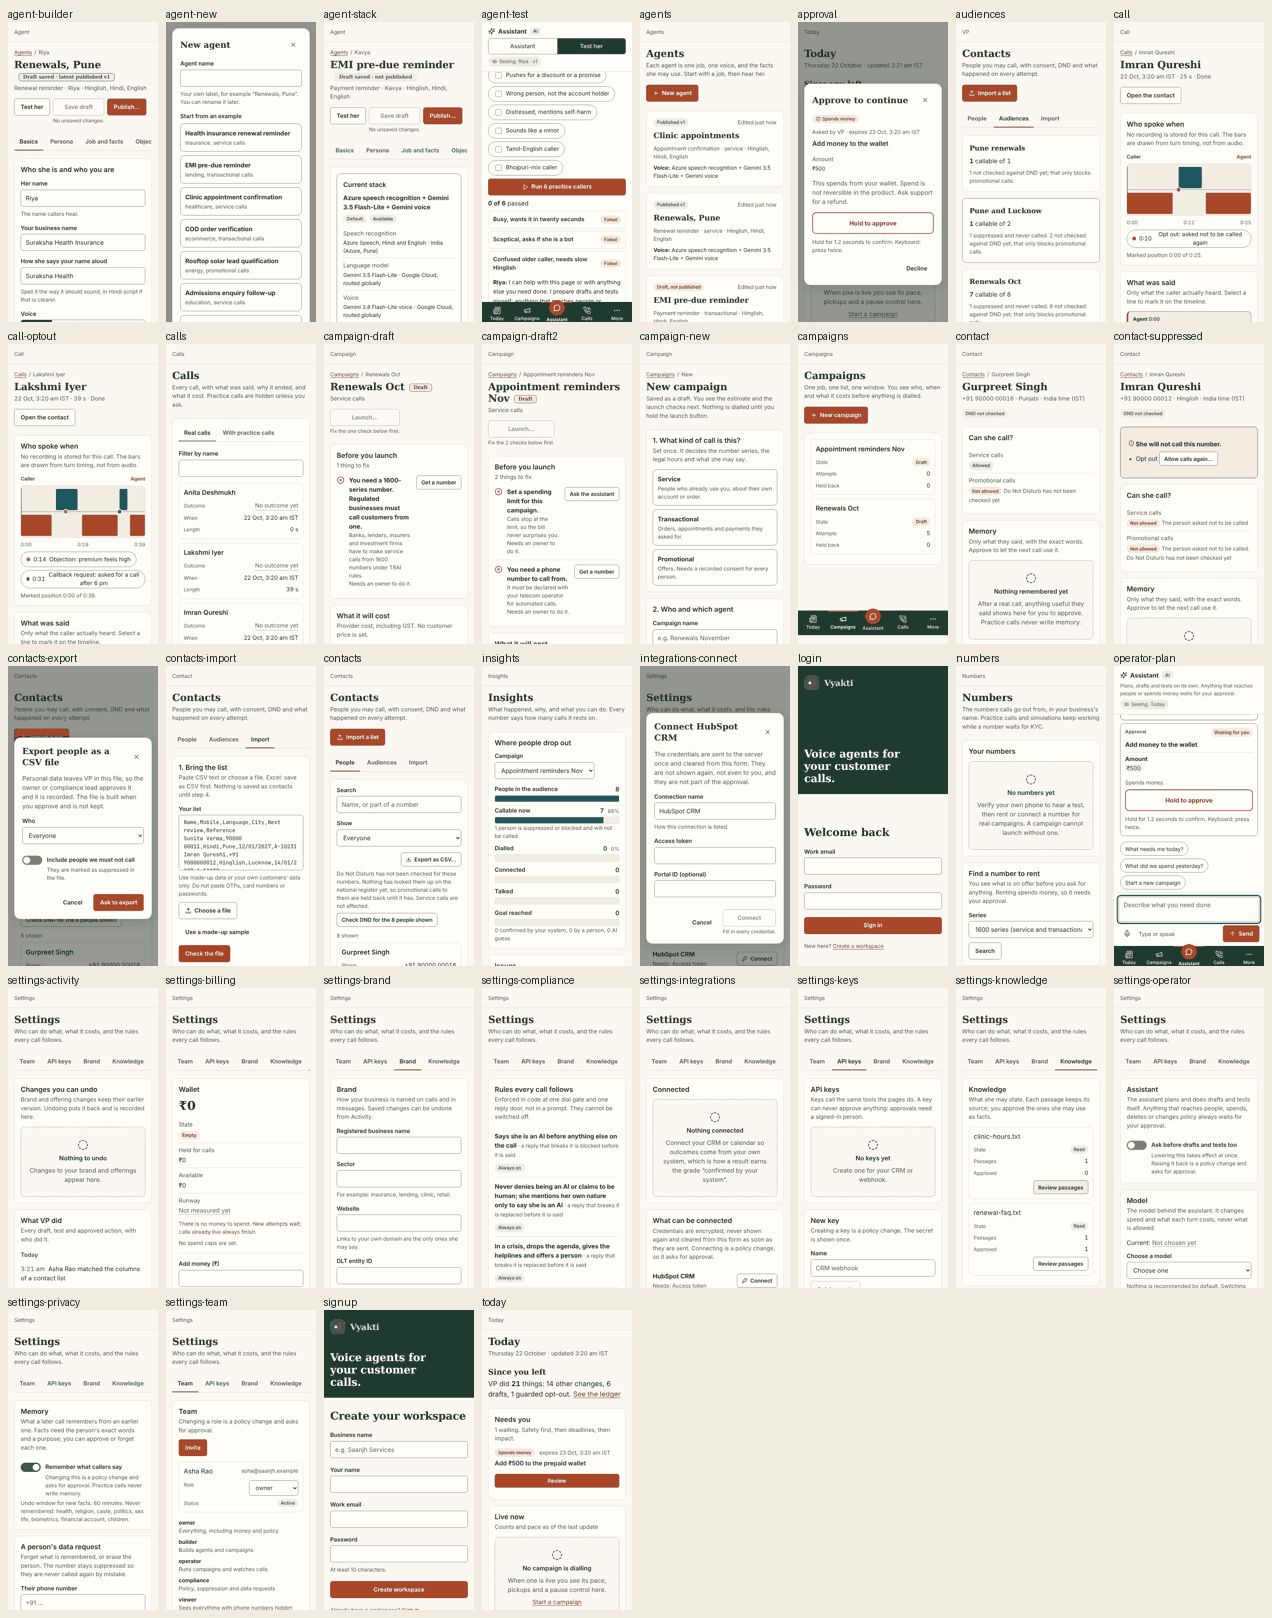
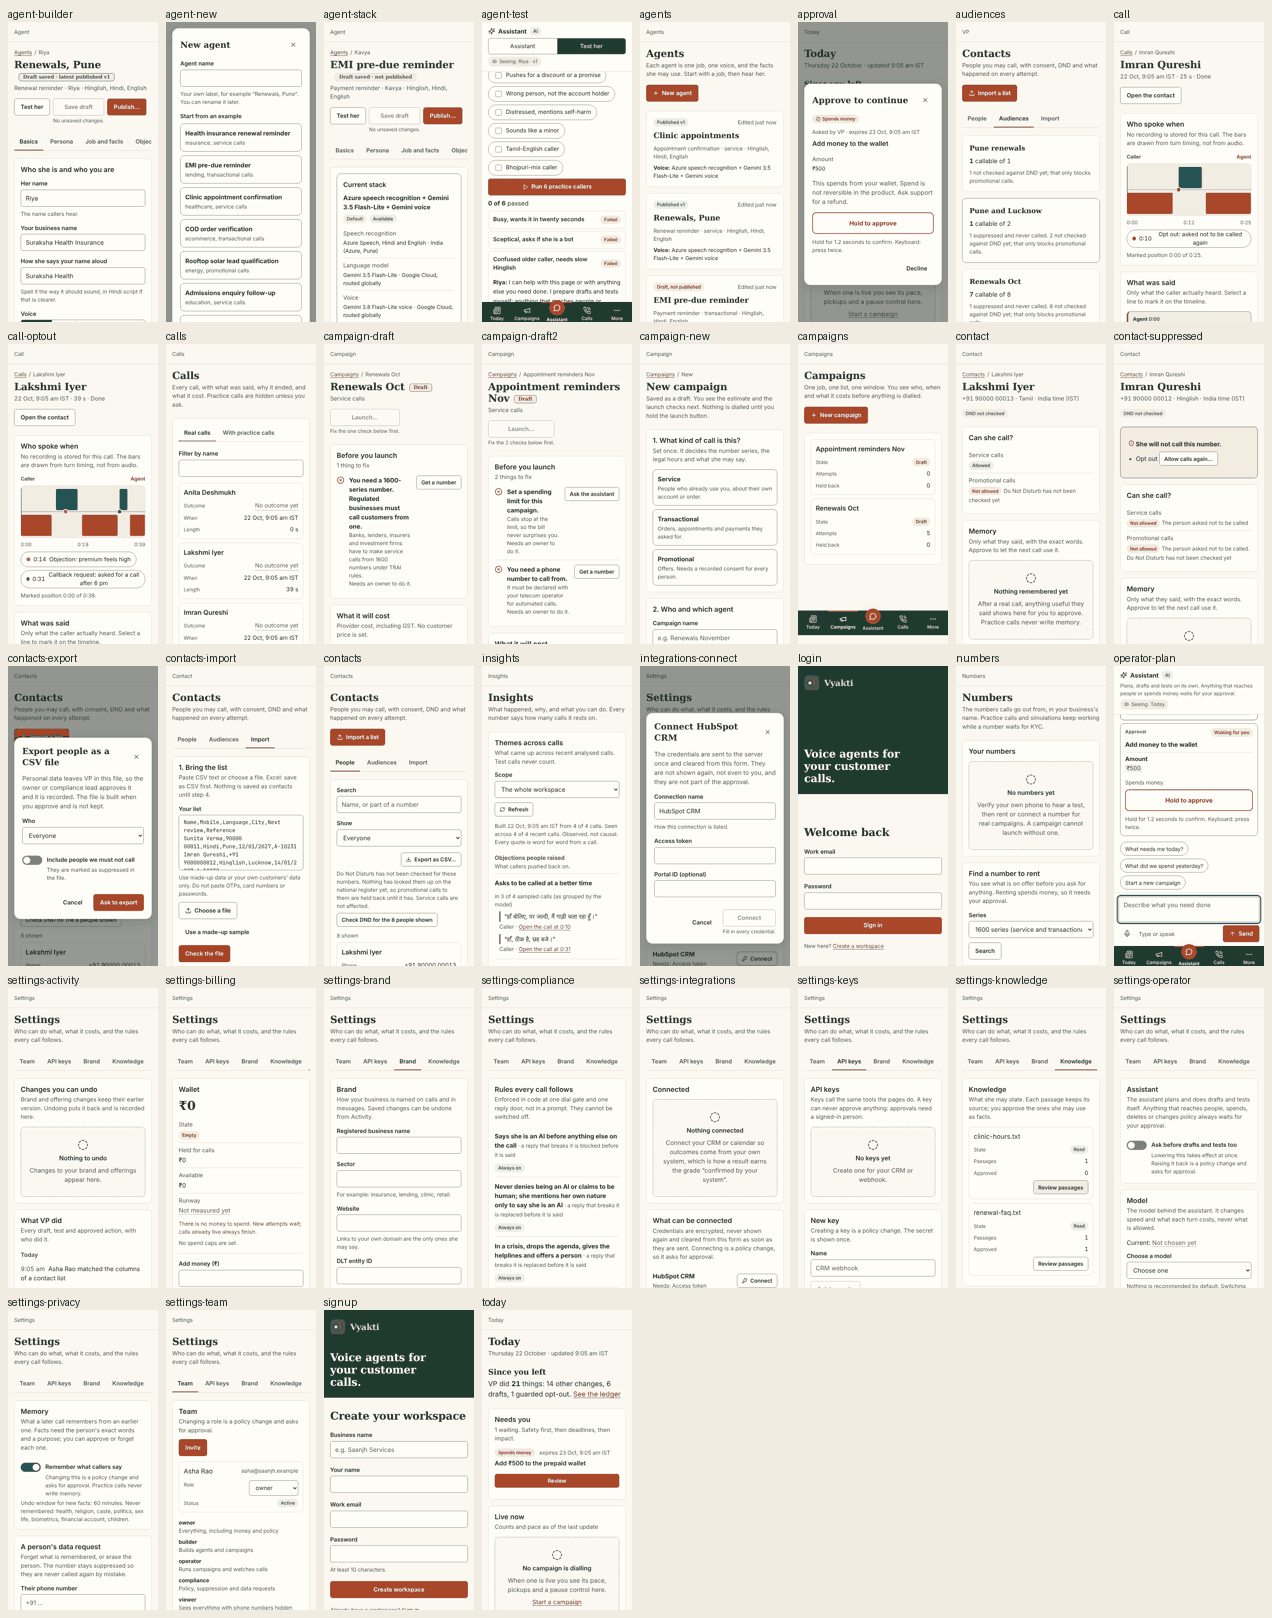
web: Insights shows cross-call themes (insight.get / insight.refresh)
Themes across calls is the first card on Insights.
- Themes are grouped by kind (objections, drop-offs, unanswered questions, what came before a reached goal), most common first.
- The count reads "in N of M sampled calls (as grouped by the model)"; nothing calls it verified. Only the quotes are checked.
- Each quote is shown as it was said, marked as the caller or the agent, and links to /calls/:id?t=<ms>, which the call page already seeks to.
- A scope picker covers the whole workspace, a published agent, or a campaign.
- The server note is shown as given, with "Built <time> from X of Y calls".
- Refresh calls insight.refresh. When the server skips, "Not rebuilt: <its reason>" is shown.
- Empty (none, no calls), failed and not-configured states each say plainly what happens next.

Tests: two new browser flows (themes, order, quotes, link to the call at its moment, and the failed / not-configured / none / skipped states).
Both failed on the page without the card first, then passed. 28 flows in all. The insight row is written in SQL (dev seed and the flow):
insight.refresh needs an analysis model the dev server does not have, so Refresh was exercised only on its skip path.

Gates: tsc clean (web and -p product); ui-contract --strict 171/171 registered, 0 missing; fresh-DB full suite 395 tests, 394 pass, 0 fail,
1 skipped (a voice-runtime test that needs Python). Browser flows ran inside it. The calls module was not touched.
[…]

Changed region(s): [[0.3679, 0.4635, 0.4906, 0.5871], [0.7665, 0.2163, 0.8278, 0.2472]]

diff --git a/product/web/src/pages/insight-themes.tsx b/product/web/src/pages/insight-themes.tsx
@@ -1,0 +1,78 @@
+// Themes across calls (insight.get / insight.refresh). The model groups; only the quotes are checked against stored transcripts,
+// so the count is labelled as the model's grouping and never as verified. Every quote is shown as it was said and opens its call at that moment.
+import { useState } from 'react';
+import { RefreshCw } from 'lucide-react';
+import { run } from '../api.ts';
+import { useApp, useData } from '../store.tsx';
+import { Async, Btn, Card, CardHead, Empty, SelectField } from '../ui.tsx';
+import { Link } from '../router.tsx';
+import { date } from '../format.ts';
+import type { AgentRow, CampaignRow } from '../types.ts';
+
+type Kind = 'objection' | 'drop_off' | 'unanswered_question' | 'success_driver';
+interface Quote { conversationId: string; text: string; speaker: string; startMs: number | null }
+interface Theme { kind: Kind; title: string; count: number; of: number; quotes: Quote[] }
+interface Insight { status: 'none' | 'done' | 'failed' | 'not_configured' | 'no_calls'; generatedAt?: string; themes?: Theme[]; callsSampled?: number; callsInScope?: number; reason?: string | null; note?: string; quotesDropped?: number; themesDropped?: number }
+interface Refreshed extends Insight { ran: boolean; skipped?: string }
+
+const KIND: Record<Kind, [string, string]> = {
+  objection: ['Objections people raised', 'What callers pushed back on.'],
+  drop_off: ['Where people dropped off', 'Where calls ended or lost the caller.'],
+  unanswered_question: ['Questions she could not answer', 'Callers asked, and the agent had no answer.'],
+  success_driver: ['What came before a reached goal', 'Seen before calls that reached their goal. Observed, not proven to cause it.'],
+};
+const ORDER: Kind[] = ['objection', 'drop_off', 'unanswered_question', 'success_driver'];
+const clock = (ms: number) => `${Math.floor(ms / 60000)}:${String(Math.floor(ms / 1000) % 60).padStart(2, '0')}`;
+
+export default function CallThemes({ agents, campaigns }: { agents: AgentRow[]; campaigns: CampaignRow[] }) {
+  const { act } = useApp();
+  const [scope, setScope] = useState('w');
+  const [busy, setBusy] = useState(false);
+  const [skipped, setSkipped] = useState<string | null>(null);
+  const args = scope === 'w' ? {} : scope.startsWith('a:') ? { agentId: scope.slice(2) } : { campaignId: scope.slice(2) };
+  const q = useData<Insight>(['insight', scope], () => run<Insight>('insight.get', args));
+  const refresh = async () => {
+    setBusy(true); setSkipped(null);
+    const r = await act<Refreshed>('insight.refresh', args, { quiet: true });
+    setBusy(false);
+    if (!r.ok || !r.result) return;
+    if (!r.result.ran) setSkipped(r.result.reason ?? 'Nothing needed rebuilding.');
+    q.setData(r.result);
+  };
+  return (
+    <Card aria-labelledby="th-h"><CardHead id="th-h" title="Themes across calls" sub="What came up across recent analysed calls. Test calls never count."
+      actions={<div className="row" style={{ alignItems: 'flex-end' }}>
+        <SelectField label="Scope" value={scope} onChange={e => { setScope(e.target.value); setSkipped(null); }}>
+          <option value="w">The whole workspace</option>
+          {agents.filter(a => a.latestVersion).map(a => <option key={a.id} value={`a:${a.id}`}>Agent: {a.name}</option>)}
+          {campaigns.map(c => <option key={c.id} value={`c:${c.id}`}>Campaign: {c.name}</option>)}
+        </SelectField>
+        {q.state === 'ready' ? <Btn size="sm" icon={<RefreshCw size={14} aria-hidden />} busy={busy} onClick={() => void refresh()}>Refresh</Btn> : <Btn size="sm" busy>Refresh</Btn>}
+      </div>} />
+      {skipped && <p className="small muted" role="status">Not rebuilt: {skipped}</p>}
+      <Async q={q} what="Themes across calls" tool="insight.get" rows={4}>{d => <Body d={d} />}</Async>
+    </Card>
+  );
+}
+
+function Body({ d }: { d: Insight }) {
+  if (d.status === 'none') return <Empty title="No insight has been built yet" body="Insights are built every night from analysed calls, or right now with Refresh. Until a real call has been analysed there is nothing to build from." />;
+  if (d.status === 'no_calls') return <Empty title="No analysed calls to learn from yet" body="Insights need real calls that have been analysed. Once some have ended and been analysed, they are built overnight, or on request with Refresh." />;
+  if (d.status === 'not_configured') return <Empty title="Insights are not switched on for this server" body="No analysis model is configured here, so themes cannot be built. Calls and their words are unaffected. Ask whoever runs your VP server to configure analysis, then use Refresh." />;
+  if (d.status === 'failed') return <Empty title="The last build did not finish" body={`${d.reason ? d.reason + ' ' : ''}Nothing was lost and the calls are untouched. Use Refresh to try again.`} />;
+  const themes = d.themes ?? [];
+  const built = <p className="small muted">Built {d.generatedAt ? date(d.generatedAt, true) : 'recently'} from {d.callsSampled ?? 0} of {d.callsInScope ?? 0} calls. {d.note}</p>;
+  if (themes.length === 0) return <>{built}<Empty title="No themes found" body="The calls looked at did not share anything often enough to report. This is a result, not an error." /></>;
+  return (
+    <div className="stack">
+      {built}
+      {ORDER.map(k => { const list = themes.filter(t => t.kind === k).sort((a, b) => b.count - a.count); if (!list.length) return null;
+        return <section key={k} aria-label={KIND[k][0]}><h3 className="dayhead">{KIND[k][0]}</h3><p className="small muted">{KIND[k][1]}</p>
+          <ul className="themes">{list.map((t, i) => <li key={i}>
+            <div className="row" style={{ justifyContent: 'space-between', alignItems: 'baseline' }}><strong>{t.title}</strong><span className="small muted tnum">in {t.count} of {t.of} sampled calls (as grouped by the model)</span></div>
+            <ul className="quotes">{t.quotes.map((q, j) => <li key={j}><blockquote lang="hi">“{q.text}”</blockquote>
+              <span className="small muted">{q.speaker === 'agent' ? 'Agent' : 'Caller'} · </span><Link to={`/calls/${q.conversationId}${q.startMs != null ? `?t=${Math.round(q.startMs)}` : ''}`} className="small">Open the call{q.startMs != null ? ` at ${clock(q.startMs)}` : ''}</Link></li>)}</ul></li>)}</ul></section>; })}
+      {((d.quotesDropped ?? 0) > 0 || (d.themesDropped ?? 0) > 0) && <p className="small muted">{d.quotesDropped ?? 0} quote{(d.quotesDropped ?? 0) === 1 ? '' : 's'} and {d.themesDropped ?? 0} theme{(d.themesDropped ?? 0) === 1 ? '' : 's'} were left out because the words could not be found in a stored transcript.</p>}
+    </div>
+  );
+}

diff --git a/product/web/dev/seed.ts b/product/web/dev/seed.ts
@@ -99,6 +99,7 @@ async function main() {
       { who: 3, end: 'no_answer', secs: 0, cost: 220, moments: [], turns: [] },
     ];
     let phone = 0;
+    const convs: string[] = [];
     for (const c of calls) {
       const contact = people[c.who];
       const attempt = (await pool.query("INSERT INTO attempt (workspace_id, campaign_id, contact_id, status) VALUES ($1,$2,$3,'dialing') RETURNING id", [ws, camp.id, contact])).rows[0].id;
@@ -109,10 +110,21 @@ async function main() {
       for (const m of c.moments) ev.push({ seq: s++, type: 'moment', at: now(), kind: m.kind, atMs: m.atMs, note: m.note });
       ev.push({ seq: s++, type: 'cost', at: now(), component: 'telephony', provider: 'exotel', quantity: Math.max(1, c.secs), unit: 'second', inrMilli: c.cost });
       ev.push({ seq: s++, type: 'call.ended', at: now(), endReason: c.end, durationS: c.secs, transcript: c.turns.map(t => ({ speaker: t.speaker, text: t.text, startMs: t.startMs })), manifest } as RuntimeEvent);
+      convs.push(conv);
       const body = JSON.stringify({ protocol: 1, conversationId: conv, events: ev });
       const res = await fetch(base + '/hooks/runtime', { method: 'POST', headers: { 'content-type': 'application/json', 'x-vp-signature': sign(SECRET, body) }, body });
       if (!res.ok) throw new Error('runtime hook: ' + res.status + ' ' + (await res.text()));
     }
+    // A workspace insight, written the way insight.refresh stores one (its model call needs an analysis model the dev server does not have).
+    // Every quote is a real turn of a seeded call.
+    const q = (i: number, t: number) => ({ conversationId: convs[i], text: calls[i].turns[t].text, speaker: calls[i].turns[t].speaker, startMs: calls[i].turns[t].startMs });
+    const themes = [
+      { kind: 'objection', title: 'The price is higher than last time', count: 2, of: 4, quotes: [q(2, 1)] },
+      { kind: 'objection', title: 'Asks to be called at a better time', count: 3, of: 4, quotes: [q(0, 1), q(2, 3)] },
+      { kind: 'drop_off', title: 'Asks not to be called again', count: 1, of: 4, quotes: [q(1, 1)] },
+      { kind: 'success_driver', title: 'Agrees once the next step is a message they can read later', count: 2, of: 4, quotes: [q(0, 3)] },
+    ];
+    await pool.query("INSERT INTO call_insight (workspace_id, scope_type, status, themes, calls_sampled, calls_in_scope, newest_call_at, detail) VALUES ($1,'workspace','done',$2,4,4, now(), $3)", [ws, JSON.stringify(themes), { reason: null, model: 'seed' }]);
     await pool.end();
   } else console.log('VP_RUNTIME_SECRET not set: skipped the four sample calls');
   console.log('seeded');

diff --git a/product/web/src/pages/insights.tsx b/product/web/src/pages/insights.tsx
@@ -9,6 +9,7 @@ import { Funnel } from '../funnel.tsx';
 import { agentList, campaignFunnel, campaignGet, campaignList } from '../data.ts';
 import { ago, count, date } from '../format.ts';
 import { prettyCode } from './contacts.tsx';
+import CallThemes from './insight-themes.tsx';
 
 interface IssueRow { id: string; category: string; severity: string; status: string; detail: unknown; created_at: string }
 interface ProposalRow { id: string; agent_id: string; kind: string; status: string; rationale: string | null; calls_to_prove: number | null; gates_passed: boolean | null; created_at: string }
@@ -35,6 +36,7 @@ export default function Insights() {
     <div className="page">
       <PageHead title="Insights" sub="What happened, why, and what you can do. Every number says how many calls it rests on." />
       <div className="stack">
+        <CallThemes agents={agents.data ?? []} campaigns={camps.data ?? []} />
         <Card aria-labelledby="fn-h"><CardHead id="fn-h" title="Where people drop out"
           actions={camps.data && camps.data.length > 0 ? <SelectField label="Campaign" value={pick} onChange={e => setCid(e.target.value)}>{camps.data.map(c => <option key={c.id} value={c.id}>{c.name}</option>)}</SelectField> : undefined} />
           {camps.state === 'ready' && (camps.data?.length ?? 0) === 0 ? <Empty title="No campaign to measure yet" body="The funnel fills in as a campaign dials. Until then there is nothing to draw, and nothing is shown as zero." />

diff --git a/product/web/src/pages.css b/product/web/src/pages.css
@@ -114,3 +114,8 @@ textarea.mono { font-family: "IBM Plex Mono", "JetBrains Mono", ui-monospace, mo
 .partopt.off { opacity: 0.7; cursor: not-allowed; }
 .partopt input { accent-color: var(--terra); width: 18px; height: 18px; margin-top: 2px; flex: none; }
 .partopt-body { display: grid; gap: 3px; min-width: 0; overflow-wrap: anywhere; }
+
+.themes, .quotes { list-style: none; margin: 8px 0 0; padding: 0; display: grid; gap: 14px; }
+.themes > li { border-top: 1px solid var(--line); padding-top: 12px; }
+.quotes { gap: 8px; margin: 8px 0 0 12px; }
+.quotes blockquote { margin: 0; padding-left: 10px; border-left: 3px solid var(--peacock); }
